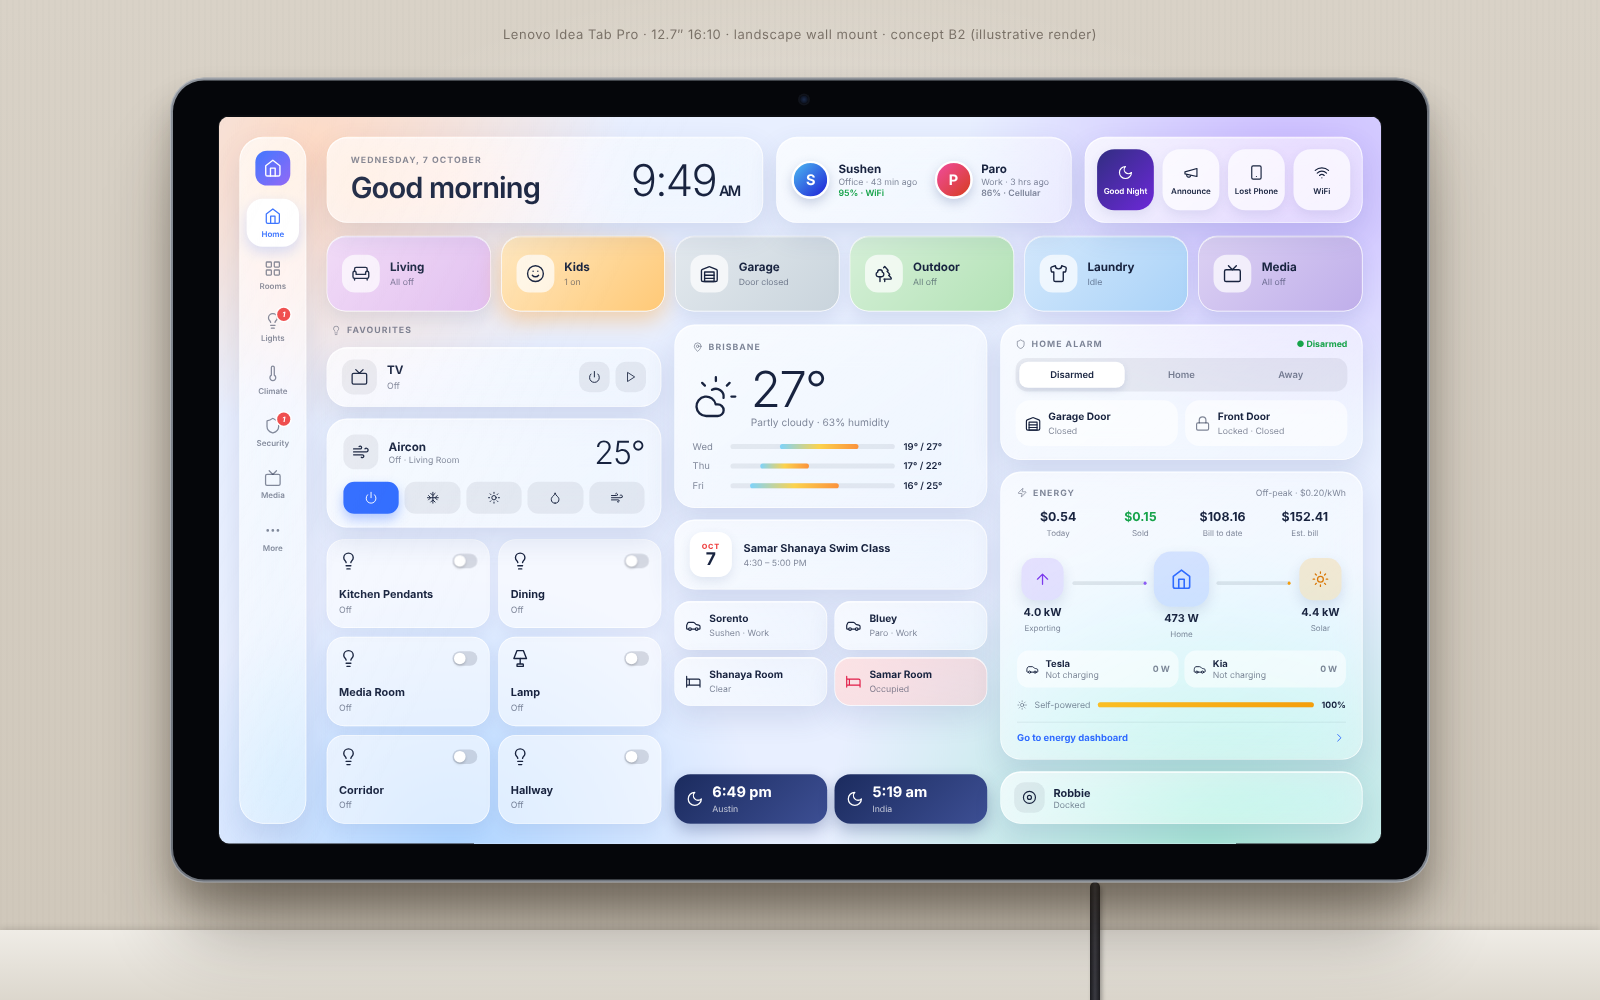
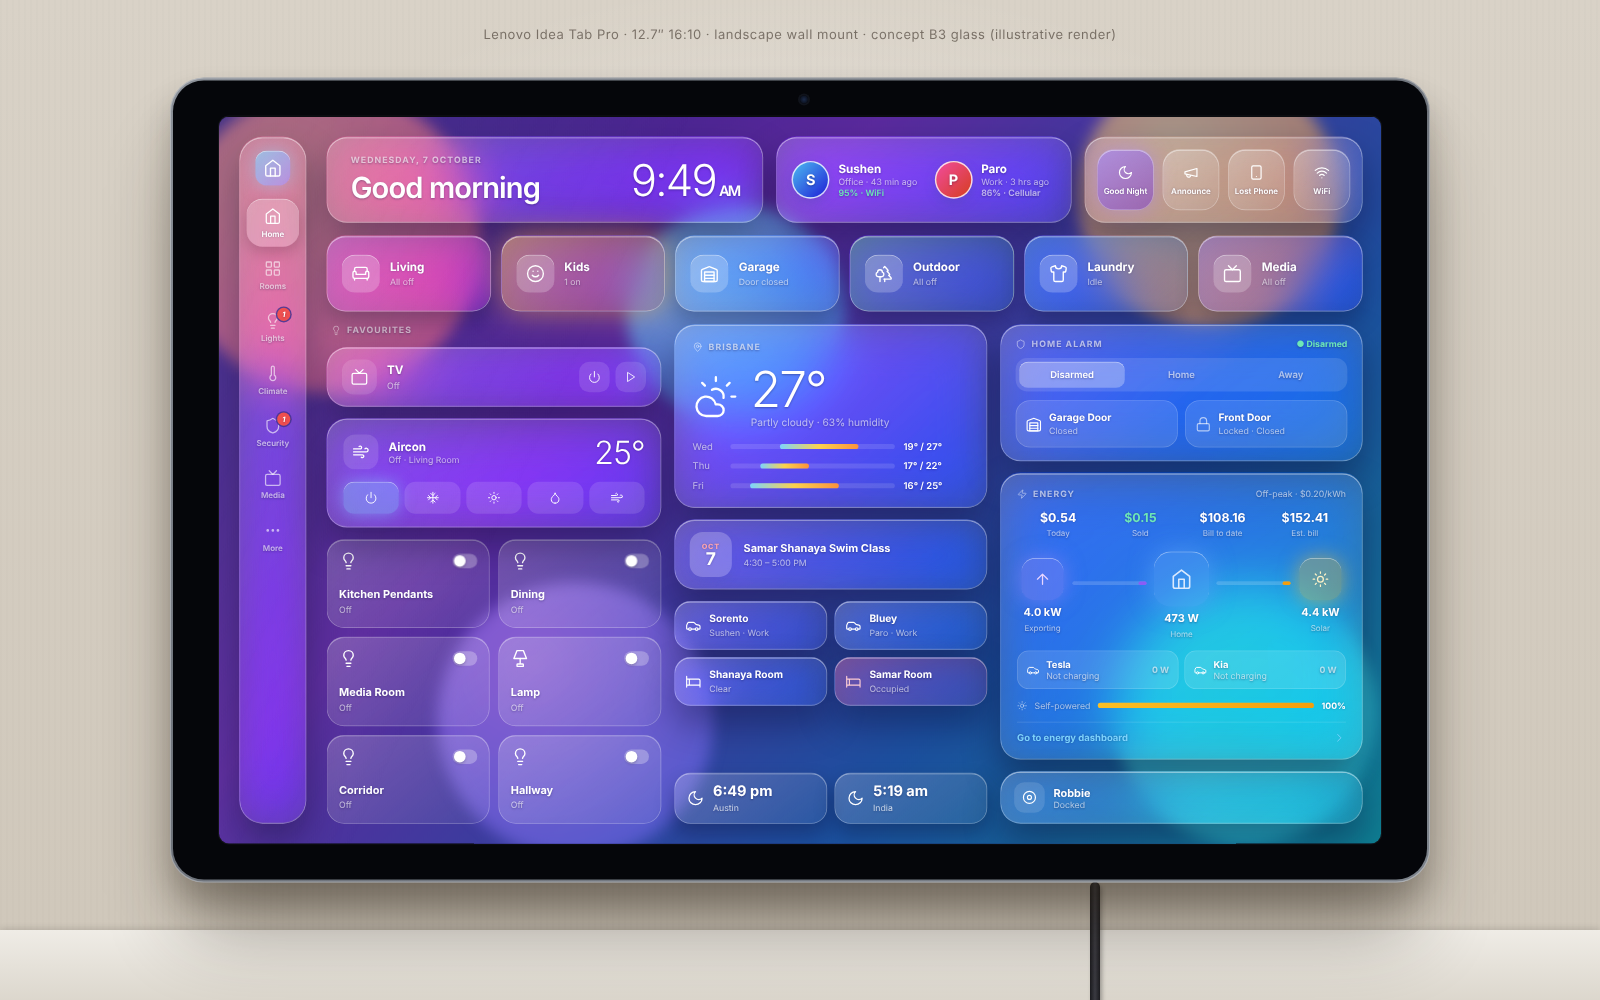
Add option B3: true glassmorphism version and update Lenovo mockup
Claude-Session: https://claude.ai/code/session_017384jG7ZBJ818z6DGMDYZc

diff --git a/dashboards/option-b3-glass.html b/dashboards/option-b3-glass.html
@@ -1,0 +1,159 @@
+<!doctype html>
+<html lang="en"><head><meta charset="utf-8"><meta name="viewport" content="width=device-width,initial-scale=1">
+<title>Option B3 – Glass</title>
+<style>
+*{box-sizing:border-box;margin:0;padding:0}
+:root{--ink:#fff;--mut:rgba(255,255,255,.62);--acc:#7dd3fc;--on:#ffb020}
+html,body{height:100%;background:#1a1446;overflow:hidden;font-family:Inter,system-ui,'Segoe UI',Roboto,sans-serif;color:var(--ink);-webkit-font-smoothing:antialiased}
+#stage{position:absolute;left:50%;top:50%;width:1600px;height:1000px;transform-origin:center;overflow:hidden;
+ background:linear-gradient(135deg,#2b1b7a 0%,#5b2a9e 35%,#1c4f9e 70%,#0f7f93 100%)}
+.orb{position:absolute;border-radius:50%;filter:blur(10px);opacity:.55}
+#c,#rail{text-shadow:0 1px 3px rgba(15,8,60,.35)}
+.ic{display:block;flex:none}
+.g{background:linear-gradient(145deg,rgba(255,255,255,.22),rgba(255,255,255,.07));border:1px solid rgba(255,255,255,.32);
+ backdrop-filter:blur(34px) saturate(190%);-webkit-backdrop-filter:blur(34px) saturate(190%);border-radius:28px;
+ box-shadow:0 24px 50px rgba(8,6,40,.38),inset 0 1px 0 rgba(255,255,255,.55),inset 0 -1px 0 rgba(255,255,255,.08)}
+.lbl{font-size:12px;font-weight:700;letter-spacing:.12em;text-transform:uppercase;color:var(--mut);display:flex;align-items:center;gap:8px}
+.mut{color:var(--mut)}
+#rail{position:absolute;left:28px;top:28px;bottom:28px;width:92px;display:flex;flex-direction:column;align-items:center;padding:18px 0;gap:6px;border-radius:32px}
+.nv{width:72px;height:66px;border-radius:22px;display:flex;flex-direction:column;align-items:center;justify-content:center;gap:5px;font-size:11px;font-weight:600;color:var(--mut);position:relative;cursor:pointer}
+.nv.act{background:rgba(255,255,255,.24);color:#fff;box-shadow:inset 0 1px 0 rgba(255,255,255,.5),0 8px 20px rgba(0,0,0,.2)}
+.bd{position:absolute;top:6px;right:12px;min-width:18px;height:18px;border-radius:9px;background:#ef4444;color:#fff;font-size:10px;font-weight:700;display:grid;place-items:center;box-shadow:0 0 0 2px rgba(60,40,140,.9)}
+.logo{width:48px;height:48px;border-radius:16px;background:linear-gradient(135deg,rgba(125,211,252,.7),rgba(167,139,250,.7));box-shadow:inset 0 1px 0 rgba(255,255,255,.6),0 0 24px rgba(125,211,252,.5);display:grid;place-items:center;color:#fff;margin-bottom:12px}
+#c{position:absolute;left:148px;right:28px;top:28px;bottom:28px;display:flex;flex-direction:column;gap:18px}
+/* header */
+.hd{height:118px;display:grid;grid-template-columns:1fr auto auto;gap:18px;align-items:stretch}
+.hi{padding:0 32px;display:flex;align-items:center;justify-content:space-between}
+.hi h1{font-size:40px;font-weight:600;letter-spacing:-.03em}
+.hi .t{font-size:60px;font-weight:300;letter-spacing:-.04em;text-align:right;line-height:1}.hi .t small{font-size:20px;font-weight:600;margin-left:4px}
+.pp{display:flex;gap:14px;padding:0 20px;align-items:center}
+.pc{display:flex;gap:12px;align-items:center;padding-right:10px}
+.av{width:52px;height:52px;border-radius:50%;display:grid;place-items:center;font-weight:700;font-size:20px;color:#fff;border:2px solid rgba(255,255,255,.8);box-shadow:0 6px 14px rgba(60,80,140,.25)}
+.pc b{font-size:16px;display:block}.pc span{font-size:12px;display:block}
+.qa{display:flex;gap:12px;padding:0 16px;align-items:center}
+.qb{width:78px;height:84px;border-radius:24px;background:linear-gradient(145deg,rgba(255,255,255,.26),rgba(255,255,255,.08));border:1px solid rgba(255,255,255,.3);display:flex;flex-direction:column;align-items:center;justify-content:center;gap:7px;font-size:11px;font-weight:600;cursor:pointer;box-shadow:inset 0 1px 0 rgba(255,255,255,.5)}
+.qb:first-child{background:linear-gradient(145deg,rgba(167,139,250,.7),rgba(109,40,217,.45));box-shadow:0 0 28px rgba(167,139,250,.5),inset 0 1px 0 rgba(255,255,255,.5)}
+/* rooms */
+.rooms{display:grid;grid-template-columns:repeat(6,1fr);gap:14px;height:104px}
+.rm{border-radius:26px;padding:0 20px;display:flex;align-items:center;gap:14px;cursor:pointer;border:1px solid rgba(255,255,255,.4);backdrop-filter:blur(30px) saturate(190%);-webkit-backdrop-filter:blur(30px) saturate(190%);box-shadow:0 14px 30px rgba(8,6,40,.3),inset 0 1px 0 rgba(255,255,255,.55)}
+.rm .ib{width:52px;height:52px;border-radius:18px;display:grid;place-items:center;background:rgba(255,255,255,.22);box-shadow:inset 0 1px 0 rgba(255,255,255,.5)}
+.rm b{font-size:16px;display:block}.rm span{font-size:12px;color:var(--mut)}
+.rm.on{box-shadow:0 0 44px rgba(255,170,50,.55),inset 0 1px 0 rgba(255,255,255,.6)}
+.k0{background:linear-gradient(135deg,rgba(214,120,255,.42),rgba(150,70,220,.18))}.k1{background:linear-gradient(135deg,rgba(255,196,90,.55),rgba(255,140,40,.28))}.k2{background:linear-gradient(135deg,rgba(190,205,225,.34),rgba(120,140,170,.14))}
+.k3{background:linear-gradient(135deg,rgba(110,231,160,.42),rgba(30,170,110,.16))}.k4{background:linear-gradient(135deg,rgba(100,190,255,.46),rgba(40,120,230,.18))}.k5{background:linear-gradient(135deg,rgba(170,140,255,.46),rgba(110,80,230,.2))}
+/* body */
+.bd3{flex:1;display:grid;grid-template-columns:460px 430px 1fr;gap:18px;min-height:0}
+.col{display:flex;flex-direction:column;gap:16px;min-height:0}
+.card{padding:20px 22px}
+.tv{display:flex;align-items:center;gap:14px;padding:16px 20px}
+.tv .ib{width:48px;height:48px;border-radius:16px;background:rgba(255,255,255,.12);display:grid;place-items:center}
+.tv b{font-size:16px;display:block}.tv .c{margin-left:auto;display:flex;gap:8px}.tv .c div{width:42px;height:42px;border-radius:14px;background:rgba(255,255,255,.12);display:grid;place-items:center;cursor:pointer}
+.ac{padding:18px 22px;display:grid;gap:14px}
+.ac .r{display:flex;align-items:center;gap:14px}
+.ac .big{font-size:44px;font-weight:300;margin-left:auto;letter-spacing:-.03em}
+.modes{display:grid;grid-template-columns:repeat(5,1fr);gap:8px}
+.modes div{height:44px;border-radius:15px;background:rgba(255,255,255,.12);display:grid;place-items:center;cursor:pointer}
+.modes .on{background:rgba(125,211,252,.38);color:#fff;box-shadow:0 0 22px rgba(125,211,252,.5),inset 0 1px 0 rgba(255,255,255,.5)}
+.lights{display:grid;grid-template-columns:1fr 1fr;gap:12px;flex:1}
+.l{border-radius:24px;padding:16px;display:flex;flex-direction:column;justify-content:space-between;cursor:pointer;background:linear-gradient(145deg,rgba(255,255,255,.2),rgba(255,255,255,.06));border:1px solid rgba(255,255,255,.28);box-shadow:inset 0 1px 0 rgba(255,255,255,.4)}
+.l .tp{display:flex;justify-content:space-between;align-items:center}
+.l b{font-size:15px;display:block}.l span{font-size:12px;color:var(--mut)}
+.l .sw{width:34px;height:20px;border-radius:10px;background:rgba(255,255,255,.28);position:relative}.l .sw:after{content:'';position:absolute;top:2px;left:2px;width:16px;height:16px;border-radius:50%;background:#fff;box-shadow:0 2px 4px rgba(0,0,0,.2);transition:.2s}
+.l.on{background:linear-gradient(145deg,#ffe29a,#ffbd59);box-shadow:0 12px 26px rgba(255,170,50,.45)}.l.on span{color:rgba(255,255,255,.7)}
+.on .sw{background:#fff}.l.on .sw:after{left:16px;background:var(--on)}
+/* mid */
+.wx{padding:22px 24px;display:grid;gap:16px}
+.wx .m{display:flex;align-items:center;gap:16px}.wx .tt{font-size:68px;font-weight:300;letter-spacing:-.04em;line-height:1}
+.fc{display:grid;gap:11px}.fc div{display:grid;grid-template-columns:40px 1fr 90px;gap:12px;align-items:center;font-size:13px}
+.bar{height:7px;border-radius:4px;background:rgba(255,255,255,.12);position:relative}.bar i{position:absolute;top:0;bottom:0;border-radius:4px;background:linear-gradient(90deg,#7dd3fc,#fcd34d,#fb923c)}
+.evt{display:flex;gap:16px;align-items:center;padding:16px 20px}
+.evt .d{width:58px;height:62px;border-radius:18px;background:rgba(255,255,255,.22);box-shadow:inset 0 1px 0 rgba(255,255,255,.5);text-align:center;display:grid;align-content:center;box-shadow:0 6px 14px rgba(60,80,140,.12)}
+.evt .d span{font-size:10px;font-weight:800;color:#fda4af;letter-spacing:.1em}.evt .d b{font-size:24px;line-height:1}
+.st{display:grid;grid-template-columns:1fr 1fr;gap:10px}
+.s{padding:14px;border-radius:22px;display:flex;gap:11px;align-items:center}
+.s b{font-size:14px;display:block}.s span{font-size:12px;color:var(--mut)}
+.s.hot{background:linear-gradient(145deg,rgba(255,120,150,.4),rgba(255,80,120,.15))}.s.hot .ic{color:#fecdd3}
+.clk{display:grid;grid-template-columns:1fr 1fr;gap:10px}
+.cl{padding:12px 16px;border-radius:22px;display:flex;align-items:center;gap:12px;color:#fff;background:linear-gradient(145deg,rgba(255,255,255,.2),rgba(255,255,255,.06));border:1px solid rgba(255,255,255,.3);box-shadow:inset 0 1px 0 rgba(255,255,255,.45),0 14px 28px rgba(8,6,40,.3)}
+.cl b{font-size:20px;display:block}.cl span{font-size:12px;opacity:.7}
+/* right */
+.sec{padding:18px 20px;display:grid;gap:12px}
+.seg{display:grid;grid-template-columns:1fr 1fr 1fr;gap:5px;padding:5px;border-radius:16px;background:rgba(255,255,255,.12)}
+.seg div{padding:10px 0;text-align:center;font-size:13px;font-weight:600;border-radius:12px;color:var(--mut);cursor:pointer}.seg .on{background:rgba(255,255,255,.28);color:#fff;box-shadow:inset 0 1px 0 rgba(255,255,255,.5)}
+.dr{display:grid;grid-template-columns:1fr 1fr;gap:10px}
+.d1{padding:13px;border-radius:20px;background:rgba(255,255,255,.12);border:1px solid rgba(255,255,255,.2);display:flex;gap:10px;align-items:center}.d1 b{font-size:14px;display:block}.d1 span{font-size:12px;color:var(--mut)}
+.ok{color:#6ee7b7}
+.en{padding:20px 22px;flex:1;display:flex;flex-direction:column;gap:12px}
+.gauge{position:relative;height:150px;display:grid;place-items:center}
+.gauge .c{position:absolute;bottom:4px;text-align:center}.gauge .c b{font-size:40px;font-weight:300;letter-spacing:-.03em;line-height:1}
+.fl{display:grid;grid-template-columns:repeat(3,1fr);gap:8px;text-align:center}
+.fl div{padding:10px 4px;border-radius:18px;background:rgba(255,255,255,.12)}.fl b{font-size:16px;display:block}.fl span{font-size:11px;color:var(--mut)}
+.stats{display:grid;grid-template-columns:repeat(4,1fr);text-align:center}.stats b{font-size:15px;display:block}.stats span{font-size:11px;color:var(--mut)}
+.ev{display:grid;grid-template-columns:1fr 1fr;gap:8px}.ev>div{padding:10px 12px;border-radius:16px;background:rgba(255,255,255,.12);border:1px solid rgba(255,255,255,.18);display:flex;gap:9px;align-items:center;font-size:12px}.ev b{display:block;font-size:13px}.ev em{margin-left:auto;font-style:normal;font-weight:700;color:var(--mut)}
+.rb{display:flex;gap:12px;align-items:center;padding:14px 18px}.rb .ib{width:42px;height:42px;border-radius:14px;background:rgba(255,255,255,.12);display:grid;place-items:center}
+
+.en{justify-content:space-between}
+.stats{padding-bottom:2px}.stats b{font-size:17px}
+.flow{display:grid;grid-template-columns:70px 1fr 84px 1fr 70px;align-items:center}
+.nd{display:flex;flex-direction:column;align-items:center;gap:6px;text-align:center}
+.nd .b{width:58px;height:58px;border-radius:19px;display:grid;place-items:center}.nd.big .b{width:76px;height:76px;border-radius:24px}
+.nd b{font-size:15px}.nd span{font-size:11px;color:var(--mut)}
+.wire{height:5px;border-radius:3px;background:rgba(255,255,255,.16);margin:0 6px 34px;position:relative;overflow:hidden}
+.wire i{position:absolute;top:0;bottom:0;width:30%;border-radius:3px;animation:run 1.6s linear infinite;animation-direction:reverse}
+@keyframes run{from{left:-30%}to{left:100%}}
+.pb{display:flex;align-items:center;gap:10px;font-size:12px;color:var(--mut)}.pb .bar{flex:1;height:7px}.pb .bar i{left:0;width:100%;background:linear-gradient(90deg,#fbbf24,#f59e0b)}
+.link{display:flex;justify-content:space-between;font-size:13px;font-weight:700;color:var(--acc);padding-top:12px;border-top:1px solid rgba(255,255,255,.16)}
+</style></head>
+<body><div id="stage">
+<div class="orb" style="left:-60px;top:-40px;width:420px;height:420px;background:radial-gradient(circle at 35% 30%,#ff9a6b,#ff5c8a)"></div>
+<div class="orb" style="left:560px;top:120px;width:300px;height:300px;background:radial-gradient(circle at 35% 30%,#7df9ff,#3b82f6)"></div>
+<div class="orb" style="left:1180px;top:-70px;width:360px;height:360px;background:radial-gradient(circle at 35% 30%,#ffe27a,#ff8a3d)"></div>
+<div class="orb" style="left:300px;top:640px;width:380px;height:380px;background:radial-gradient(circle at 35% 30%,#c084fc,#6366f1)"></div>
+<div class="orb" style="left:1230px;top:640px;width:360px;height:360px;background:radial-gradient(circle at 35% 30%,#5eead4,#22d3ee)"></div>
+<div id="rail" class="g"></div>
+<div id="c">
+  <div class="hd" id="hd"></div>
+  <div class="rooms" id="rooms"></div>
+  <div class="bd3"><div class="col" id="c1"></div><div class="col" id="c2"></div><div class="col" id="c3"></div></div>
+</div></div>
+<script src="shared.js"></script>
+<script>
+const $=id=>document.getElementById(id), w=D.weather, e=D.energy;
+$('rail').innerHTML=`<div class="logo">${ic('home',26)}</div>`+D.nav.map(n=>`<div class="nv ${n.active?'act':''}">${ic(n.icon,24)}${n.name}${n.badge?`<i class="bd">${n.badge}</i>`:''}</div>`).join('');
+$('hd').innerHTML=`
+<div class="g hi"><div><div class="lbl">${D.now.date}</div><h1 style="margin-top:6px">Good morning</h1></div><div class="t">${D.now.time}<small>${D.now.ampm}</small></div></div>
+<div class="g pp">${D.people.map(p=>`<div class="pc"><div class="av" style="background:linear-gradient(135deg,hsl(${p.hue} 85% 62%),hsl(${p.hue+40} 75% 48%))">${p.init}</div><div><b>${p.name}</b><span class="mut">${p.place} · ${p.ago}</span><span class="${p.batt>90?'ok':'mut'}" style="font-weight:600">${p.batt}% · ${p.net}</span></div></div>`).join('')}</div>
+<div class="g qa">${D.quick.map(q=>`<div class="qb">${ic(q.icon,22)}${q.name}</div>`).join('')}</div>`;
+$('rooms').innerHTML=D.rooms.map((r,i)=>`<div class="rm k${i} ${r.on?'on':''}" data-toggle><div class="ib">${ic(r.icon,26)}</div><div><b>${r.name}</b><span>${r.sub}</span></div></div>`).join('');
+$('c1').innerHTML=`
+<div class="lbl" style="margin:0 6px">${ic('bulb',14)} Favourites</div>
+<div class="g tv"><div class="ib">${ic('tv',24)}</div><div><b>TV</b><span class="mut" style="font-size:12px">Off</span></div><div class="c"><div>${ic('power',18)}</div><div>${ic('play',16)}</div></div></div>
+<div class="g ac"><div class="r"><div class="ib" style="width:48px;height:48px;border-radius:16px;background:rgba(255,255,255,.12);display:grid;place-items:center">${ic('wind',24)}</div><div><b style="font-size:16px">Aircon</b><div class="mut" style="font-size:12px">Off · Living Room</div></div><div class="big">25°</div></div>
+ <div class="modes" data-seg><div class="on">${ic('power',18)}</div><div>${ic('snow',18)}</div><div>${ic('sun',18)}</div><div>${ic('drop',18)}</div><div>${ic('wind',18)}</div></div></div>
+<div class="lights">${D.lights.map(l=>`<div class="l" data-toggle><div class="tp">${ic(l.icon,26)}<div class="sw"></div></div><div><b>${l.name}</b><span>Off</span></div></div>`).join('')}</div>`;
+$('c2').innerHTML=`
+<div class="g wx"><div class="lbl">${ic('pin',14)} Brisbane</div>
+ <div class="m">${ic('cloudsun',64,1.2)}<div><div class="tt">${w.temp}°</div><div class="mut" style="font-size:14px;margin-top:4px">${w.sky} · ${w.humidity}% humidity</div></div></div>
+ <div class="fc">${w.days.map(d=>`<div><span class="mut">${d[0]}</span><div class="bar"><i style="left:${(d[1]-14)*6}%;right:${100-(d[2]-14)*6}%"></i></div><b style="font-weight:600">${d[1]}° / ${d[2]}°</b></div>`).join('')}</div></div>
+<div class="g evt"><div class="d"><span>${D.event.mon}</span><b>${D.event.num}</b></div><div><b style="font-size:15px">${D.event.title}</b><div class="mut" style="font-size:12px;margin-top:3px">${D.event.time}</div></div></div>
+<div class="st">${D.status.map(s=>`<div class="g s ${s.hot?'hot':''}">${ic(s.icon,22)}<div><b>${s.name}</b><span>${s.sub}</span></div></div>`).join('')}</div>
+<div class="clk" style="margin-top:auto">${D.clocks.map(c=>`<div class="cl">${ic('moon',24)}<div><b>${c[1]} ${c[2]}</b><span>${c[0]}</span></div></div>`).join('')}</div>`;
+const R=70,C=Math.PI*R;
+$('c3').innerHTML=`
+<div class="g sec"><div style="display:flex;justify-content:space-between;align-items:center"><div class="lbl">${ic('shield',14)} Home Alarm</div><span class="ok" style="font-size:12px;font-weight:700">● ${D.security.alarm}</span></div>
+ <div class="seg" data-seg><div class="on">Disarmed</div><div>Home</div><div>Away</div></div>
+ <div class="dr"><div class="d1">${ic('garage',22)}<div><b>Garage Door</b><span>${D.security.garage}</span></div></div><div class="d1"><span class="ok">${ic('lock',22)}</span><div><b>Front Door</b><span>${D.security.front}</span></div></div></div></div>
+<div class="g en"><div style="display:flex;justify-content:space-between;align-items:center"><div class="lbl">${ic('zap',14)} Energy</div><span class="mut" style="font-size:12px">Off-peak · $${e.rate}/kWh</span></div>
+ <div class="stats"><div><b>$${e.today}</b><span>Today</span></div><div><b class="ok">$${e.sold}</b><span>Sold</span></div><div><b>$${e.bill}</b><span>Bill to date</span></div><div><b>$${e.est}</b><span>Est. bill</span></div></div>
+ <div class="flow">
+  <div class="nd"><div class="b" style="background:rgba(167,139,250,.3);color:#e9d5ff;box-shadow:0 0 28px rgba(167,139,250,.5),inset 0 1px 0 rgba(255,255,255,.5)">${ic('up',24)}</div><b>${e.grid} kW</b><span>Exporting</span></div>
+  <div class="wire"><i style="background:#8b5cf6"></i></div>
+  <div class="nd big"><div class="b" style="background:rgba(96,165,250,.36);color:#dbeafe;box-shadow:0 0 34px rgba(96,165,250,.6),inset 0 1px 0 rgba(255,255,255,.5)">${ic('home',30)}</div><b>${e.home} W</b><span>Home</span></div>
+  <div class="wire"><i style="background:#f59e0b"></i></div>
+  <div class="nd"><div class="b" style="background:rgba(251,191,36,.3);color:#fef3c7;box-shadow:0 0 28px rgba(251,191,36,.55),inset 0 1px 0 rgba(255,255,255,.5)">${ic('sun',24)}</div><b>${e.solar} kW</b><span>Solar</span></div>
+ </div>
+ <div class="ev">${e.evs.map(v=>`<div>${ic('car',18)}<div><b>${v[0]}</b><span class="mut">${v[1]}</span></div><em>0 W</em></div>`).join('')}</div>
+ <div class="pb">${ic('sun',14)} Self-powered <div class="bar"><i></i></div><b style="color:var(--ink)">${e.self}%</b></div>
+ <div class="link"><span>Go to energy dashboard</span>${ic('chev',18)}</div></div>
+<div class="g rb"><div class="ib">${ic('bot',22)}</div><div><b style="font-size:15px">${D.robot.name}</b><div class="mut" style="font-size:12px">${D.robot.state}</div></div></div>`;
+</script></body></html>

diff --git a/dashboards/mockup-lenovo-wall.html b/dashboards/mockup-lenovo-wall.html
@@ -20,6 +20,6 @@ html,body{width:1600px;height:1000px;overflow:hidden;font-family:Inter,sans-seri
 .cap{position:absolute;left:0;right:0;top:26px;text-align:center;color:rgba(40,30,20,.55);font-size:13px;letter-spacing:.04em}
 </style></head><body>
 <div class="wall"></div><div class="skirt"></div><div class="cable"></div>
-<div class="tab"><div class="bez"><div class="cam"></div><div class="scr"><iframe src="option-b2-daylight-flow.html" scrolling="no"></iframe></div><div class="glare"></div></div></div>
-<div class="cap">Lenovo Idea Tab Pro · 12.7″ 16:10 · landscape wall mount · concept B2 (illustrative render)</div>
+<div class="tab"><div class="bez"><div class="cam"></div><div class="scr"><iframe src="option-b3-glass.html" scrolling="no"></iframe></div><div class="glare"></div></div></div>
+<div class="cap">Lenovo Idea Tab Pro · 12.7″ 16:10 · landscape wall mount · concept B3 glass (illustrative render)</div>
 </body></html>
